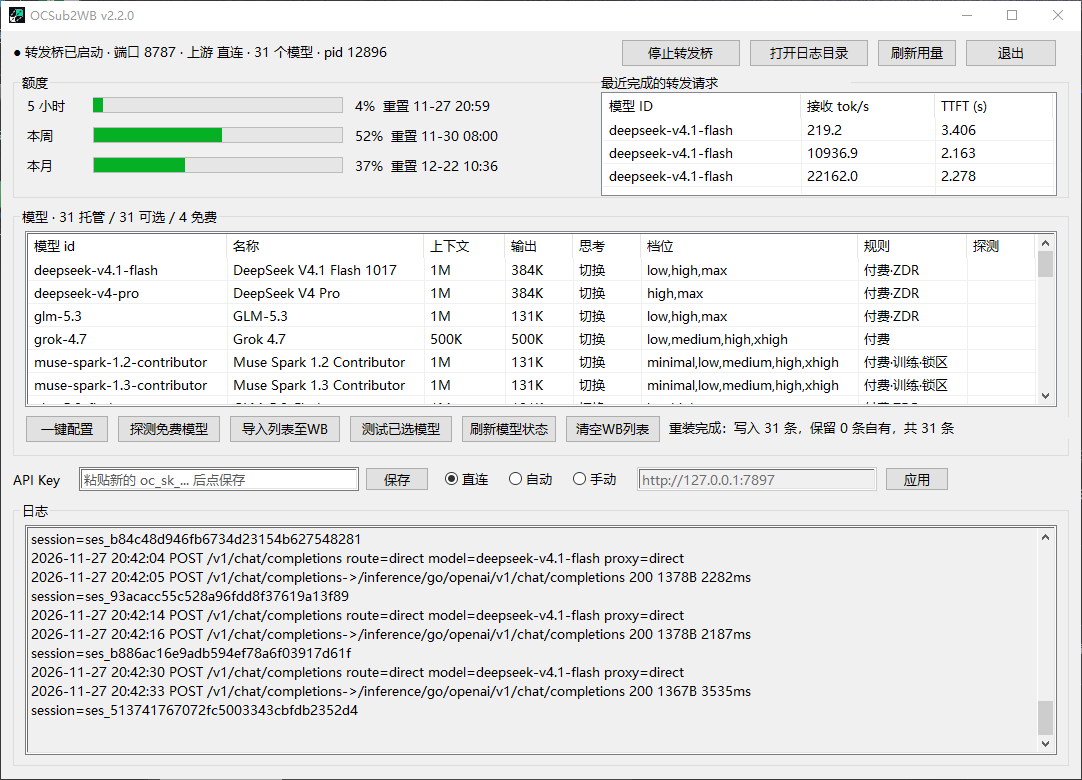
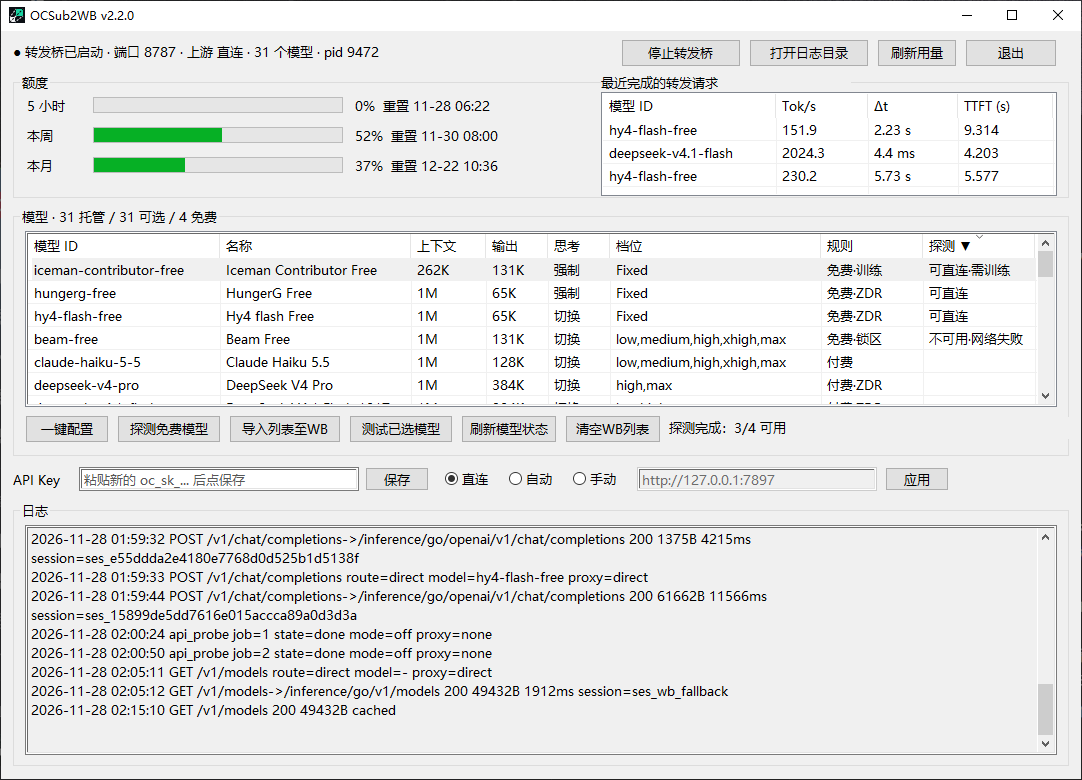
Refresh the README panel screenshot

diff --git a/README.md b/README.md
@@ -21,10 +21,10 @@
 ## 运行界面
 
 <p align="center">
-  <img src="./assets/panel.png" width="980" alt="OCSub2WB v2.2.0 实机截图，最近转发请求显示 DeepSeek Flash 的五位数接收速率">
+  <img src="./assets/panel.png" width="980" alt="OCSub2WB 实机截图，最近转发请求表显示 Tok/s、Δt 和 TTFT，下方显示模型探测结果">
 </p>
 
-这是 **OCSub2WB v2.2.0** 的实机截图，右上角显示近期转发请求的接收速率和 TTFT。图中的五位数读数见下文的工具结果审查案例。v2.2.1 在 Tok/s 旁新增 Δt 列。
+这是 **v2.2.1 发布前的实机截图**，标题栏仍显示测试时的 v2.2.0。右上角已显示新加的 Δt 列。图中的 DeepSeek Flash 记录为 **2,024.3 Tok/s**，首尾输出的接收间隔为 **4.4 ms**。
 
 ## 最近完成的转发请求
 
@@ -42,9 +42,9 @@
 
 WorkBuddy 5.11.3 的工具结果审查通过开关控制。在本机四组实测中，主对话分别选用 WorkBuddy 官方的 Hy4 Flash、DeepSeek Flash，以及经 OCSub2WB 接入的这两款模型。四组都观察到 DeepSeek Flash 请求经过转发桥。
 
-截图拍摄时，主对话使用 WorkBuddy 官方 DeepSeek Flash。本机日志将图中三条经 OCSub2WB 转发的请求标记为 `content_security_reviewer`。这个路由结论限于本次验证的版本和模型配置。[WorkBuddy 安全中心说明](https://www.workbuddy.cn/docs/workbuddy/From-Beginner-to-Expert-Guide/Function-Description/Permission-Modes#ai-安全防护)
+此前一次以 WorkBuddy 官方 DeepSeek Flash 为主对话模型的测试中，本机日志将三条经 OCSub2WB 转发的请求标记为 `content_security_reviewer`。这个路由结论限于本次验证的版本和模型配置。[WorkBuddy 安全中心说明](https://www.workbuddy.cn/docs/workbuddy/From-Beginner-to-Expert-Guide/Function-Description/Permission-Modes#ai-安全防护)
 
-图中的 **10,936.9** 和 **22,162.0 tok/s** 是流式分块在很短的时间内集中到达时的接收速率。这个指标按分块到达转发桥的时间计算。
+此前测试中记录的 **10,936.9** 和 **22,162.0 tok/s** 是流式分块在很短的时间内集中到达时的接收速率。这个指标按分块到达转发桥的时间计算。
 
 ## 接下来怎么用
 
